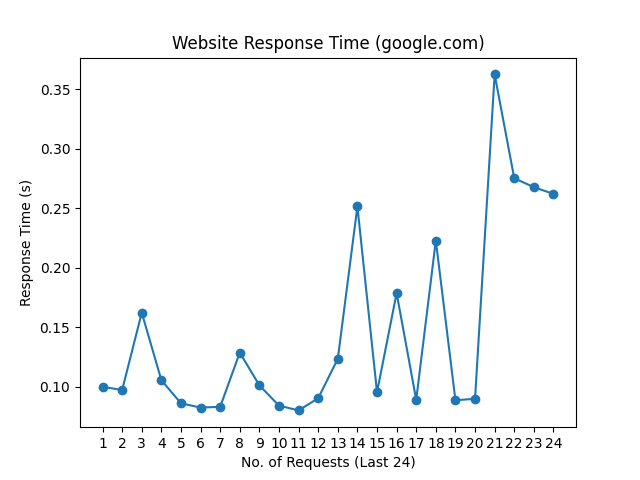
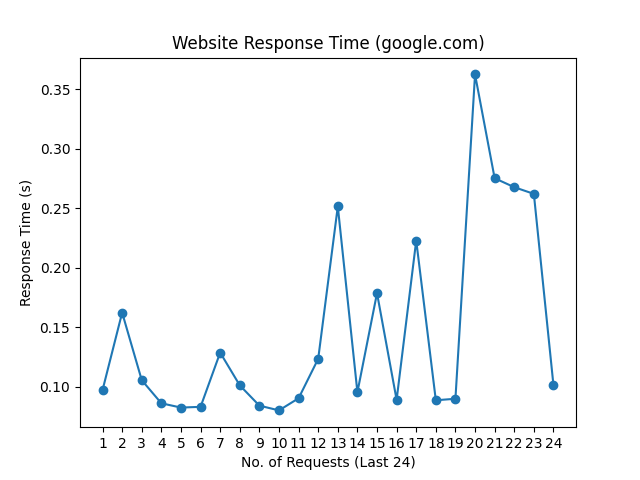
update README.md, history and graph

Changed region(s): [[0.1562, 0.125, 0.875, 0.875], [0.8438, 0.5312, 0.875, 0.8125]]

diff --git a/README.md b/README.md
@@ -1,10 +1,10 @@
 # Web Monitoring
 
-Last Checked: 19/04/2024 09:01
+Last Checked: 20/04/2024 09:01
 
 | Website | Response Time (s) | Status | Avg Uptime (%) |
 |---------|-------------------|--------|----------------|
 | www.thiswebsiteisdown.net | 0 <br> <img src="graph/thiswebsiteisdown.net.png" alt="Graph" width="200" height="200">  | ❌ Down | 0.00 |
-| www.netflix.com | 0.962947 <br> <img src="graph/netflix.com.png" alt="Graph" width="200" height="200">  | ✅ Up | 100.00 |
-| www.google.com | 0.261936 <br> <img src="graph/google.com.png" alt="Graph" width="200" height="200">  | ✅ Up | 100.00 |
-| www.facebook.com | 0.478992 <br> <img src="graph/facebook.com.png" alt="Graph" width="200" height="200">  | ✅ Up | 100.00 |
+| www.netflix.com | 0.958458 <br> <img src="graph/netflix.com.png" alt="Graph" width="200" height="200">  | ✅ Up | 100.00 |
+| www.google.com | 0.101125 <br> <img src="graph/google.com.png" alt="Graph" width="200" height="200">  | ✅ Up | 100.00 |
+| www.facebook.com | 0.812034 <br> <img src="graph/facebook.com.png" alt="Graph" width="200" height="200">  | ✅ Up | 100.00 |
